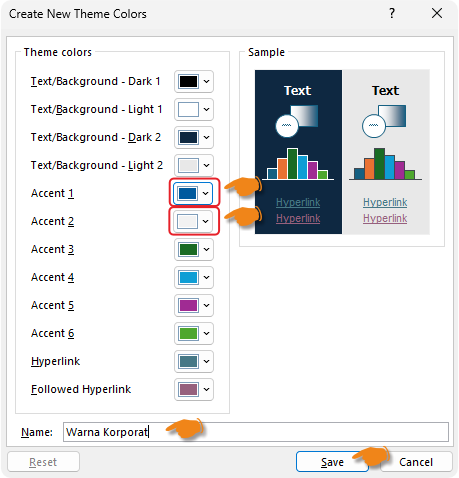
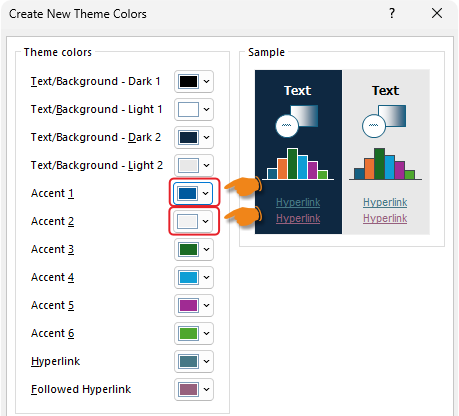
M

diff --git a/materi-powerpoint.html b/materi-powerpoint.html
@@ -2823,13 +2823,17 @@
                                         <strong>HEX</strong>: #005A9E
                                       </li>
                                       <li><strong>Accent 2</strong>: Abu-abu atau <strong>HEX</strong>: #F2F2F2</li>
-                                      <li>
-                                        Beri nama: "<strong>Warna Korporat</strong>" →
-                                        <strong>Save</strong>.
-                                      </li>
                                     </ul>
                                     <div class="my-3">
                                       <img src="assets/img/kustomisasi-warna-korporat.png" alt=""
+                                        class="img-fluid shadow rounded">
+                                    </div>
+                                  </li>
+                                  <li>
+                                    Beri nama: "<strong>Warna Korporat</strong>" →
+                                    <strong>Save</strong>.
+                                    <div class="my-3">
+                                      <img src="assets/img/kustomisasi-warna-korporat6.png" alt=""
                                         class="img-fluid shadow rounded">
                                     </div>
                                   </li>
